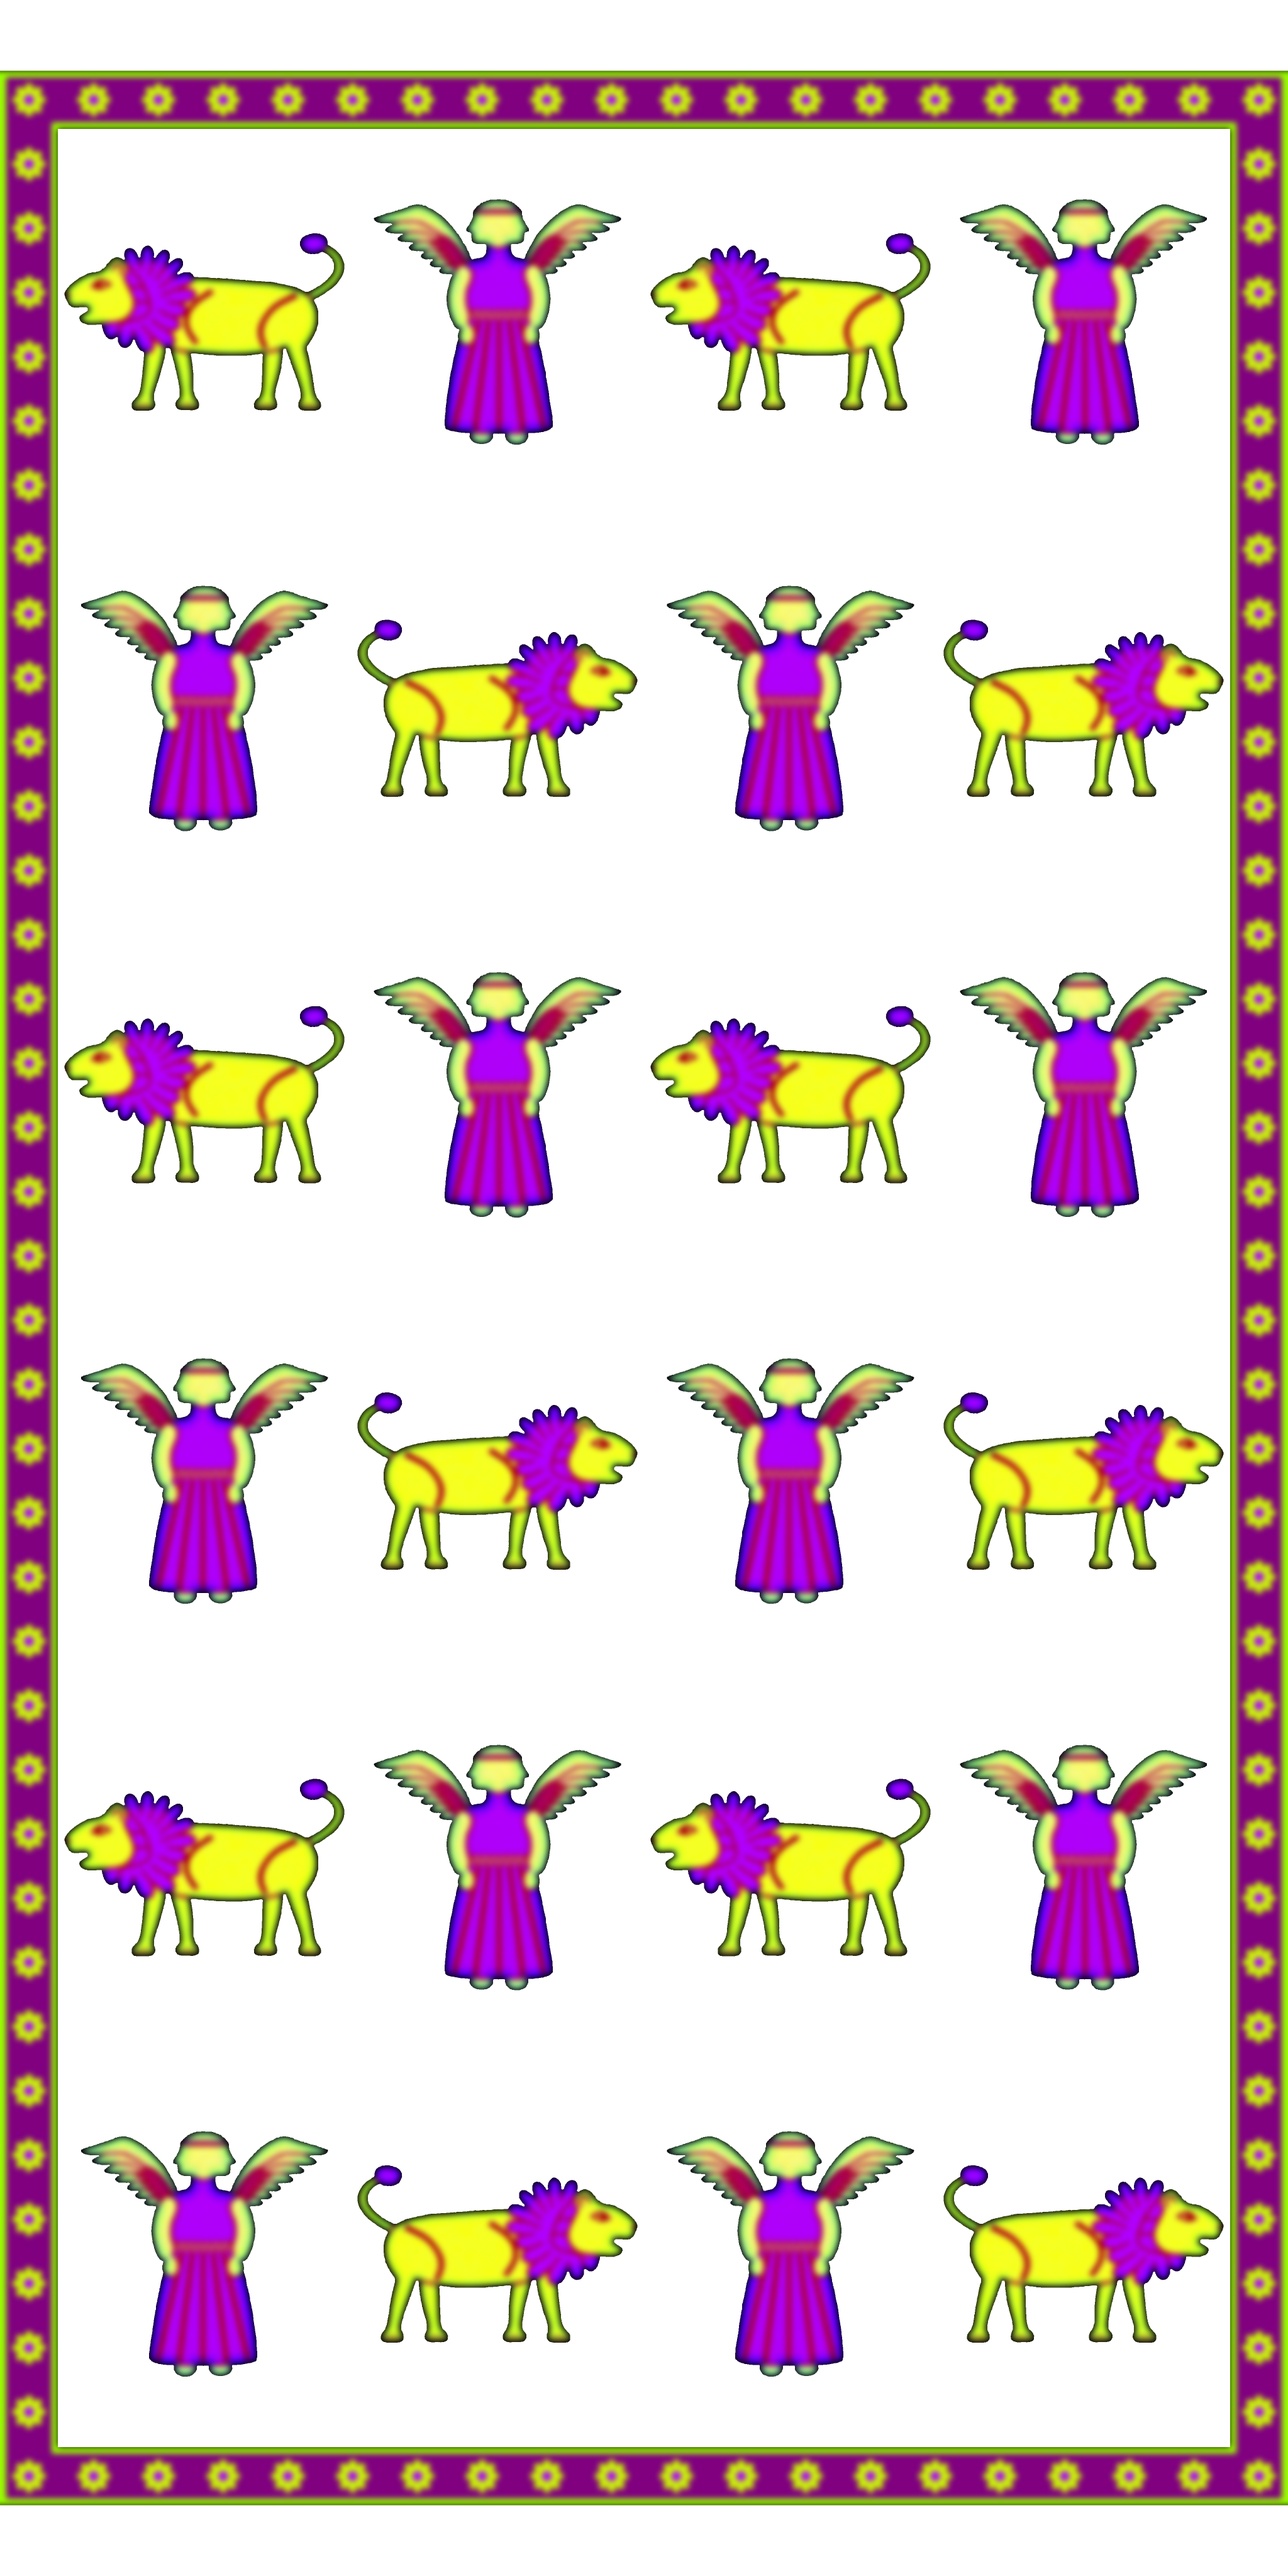
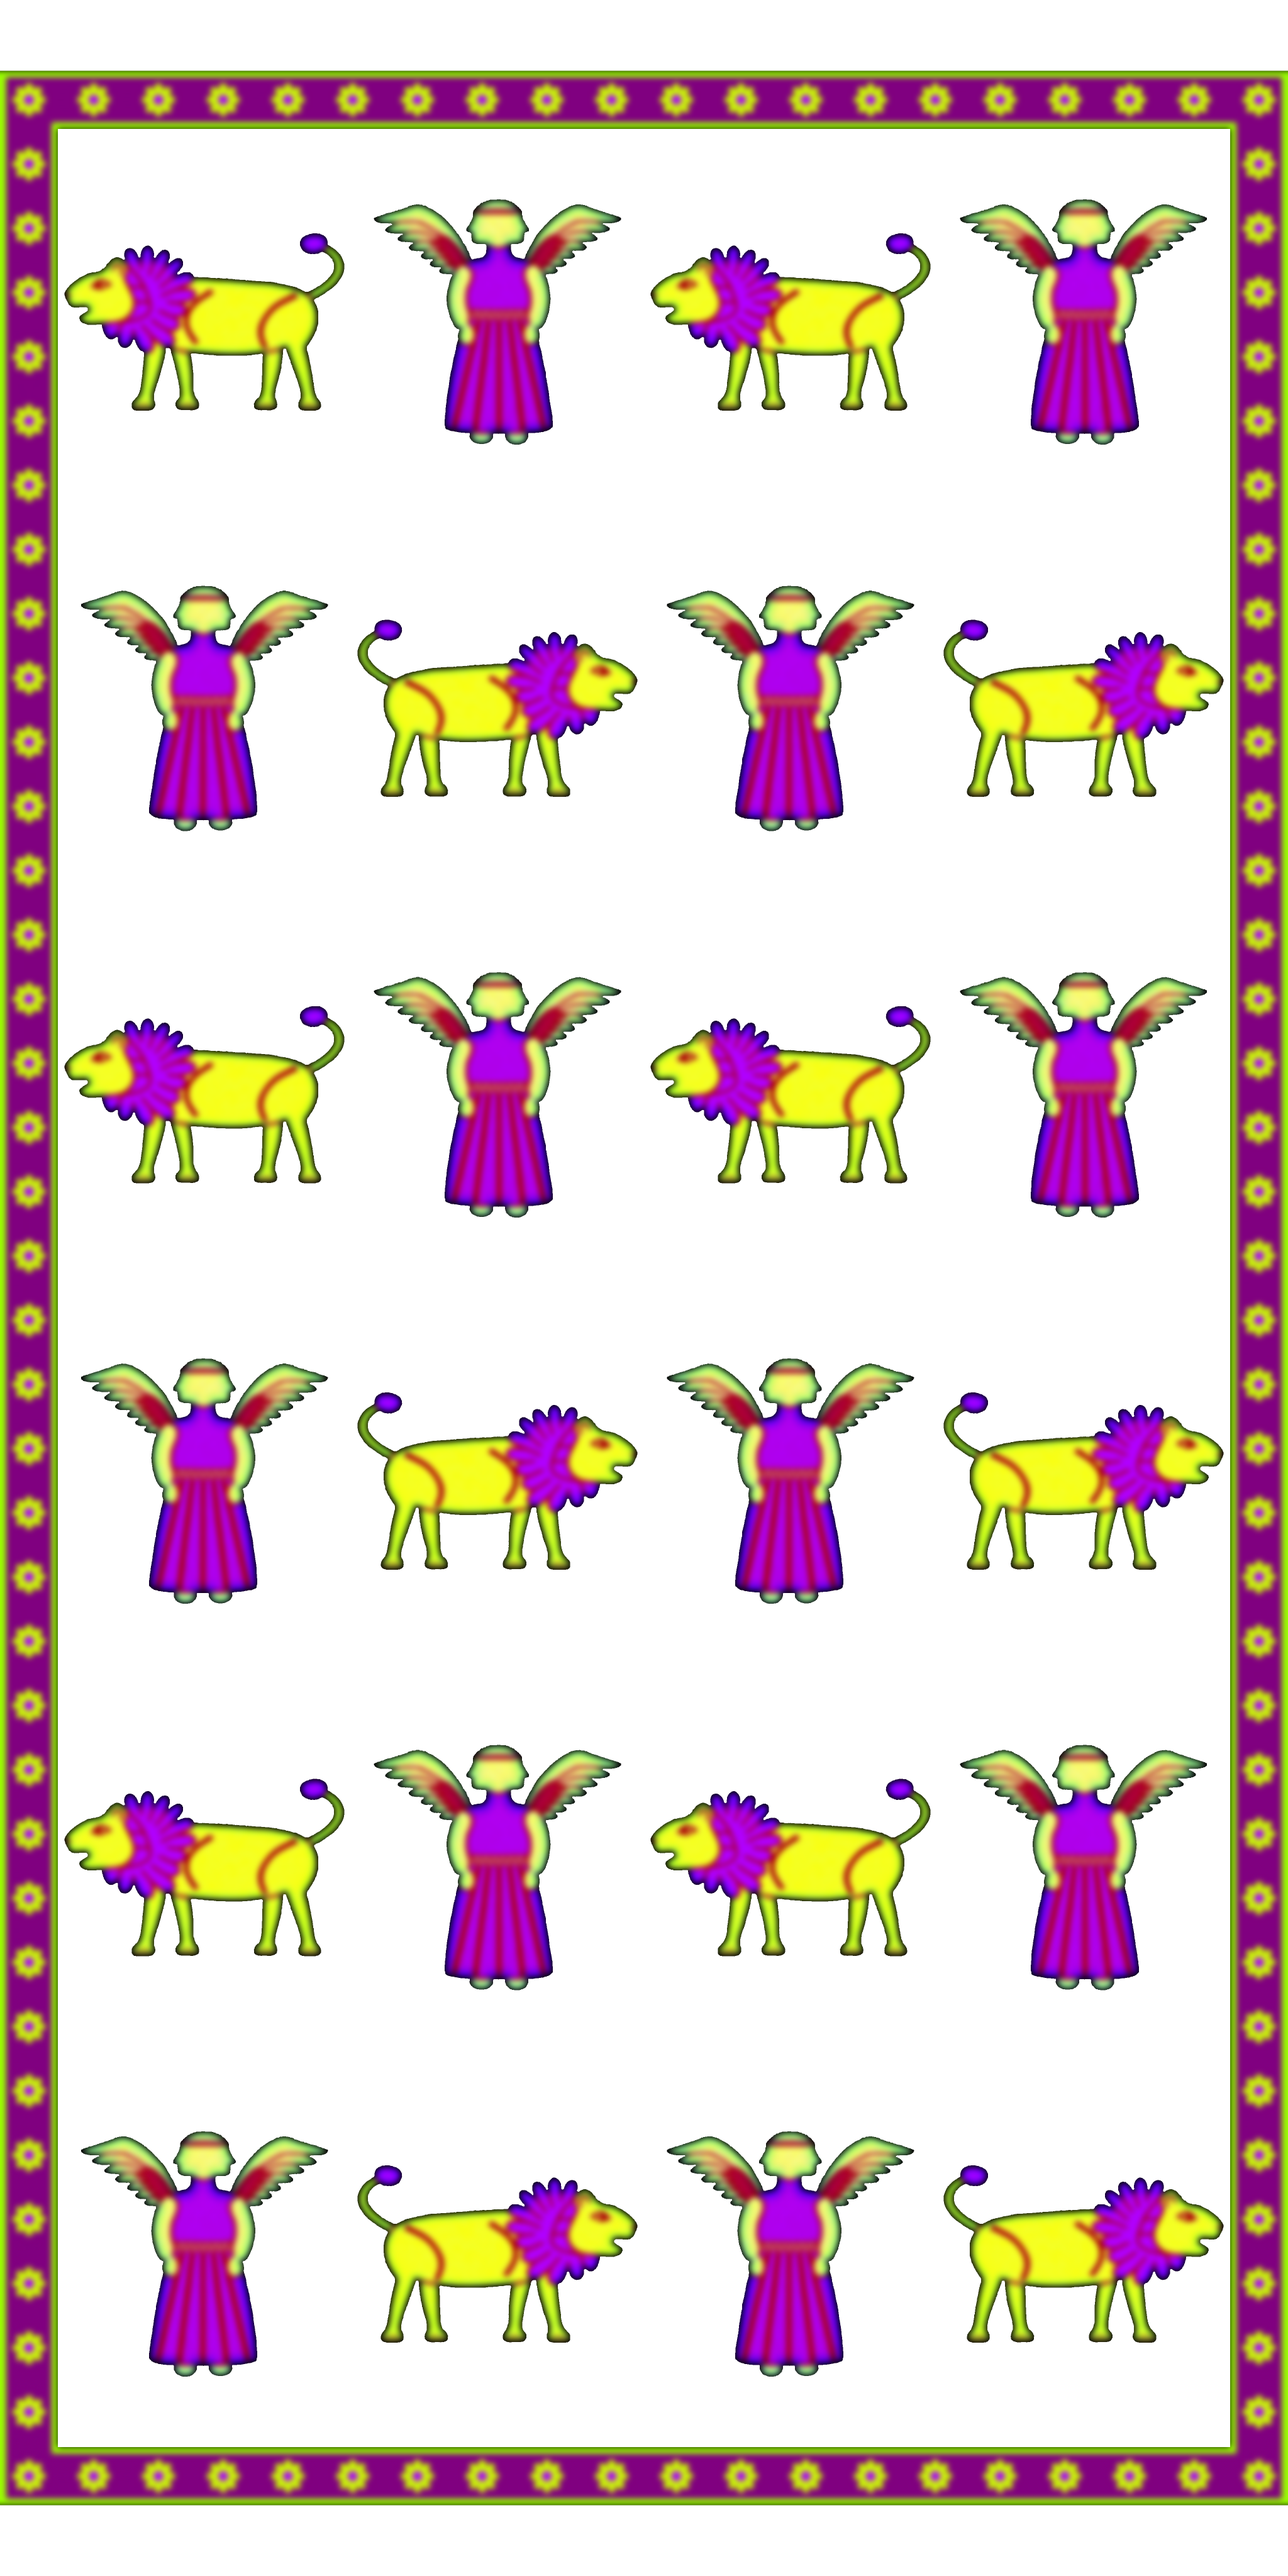
Visite : la parokhet, fond sans lin et écart des cordons resserré

diff --git a/visite/matieres.js b/visite/matieres.js
@@ -279,7 +279,7 @@ const vec3 NOIR_SUIE = vec3(0.165, 0.165, 0.170);
 // le fond est la couleur que le glb porte, les autres s'en déduisent par rapport.
 const float SOL_BAYIT = 6.0 * AMA;
 const float BOMBE_PAROKHET = 0.12 * AMA;
-const vec3 FOND_PAROKHET = vec3(0.2057, 0.1109, 0.2918);
+const vec3 FOND_PAROKHET = vec3(0.1965, 0.0938, 0.2793);
 const vec3 CHAUD_PAROKHET = vec3(0.3510, 0.0953, 0.1740);
 const vec3 CLAIR_PAROKHET = vec3(0.5527, 0.4624, 0.4507);
 const vec3 CLAIR_CHAUD_PAROKHET = vec3(0.5059, 0.3165, 0.3128);

diff --git a/beit_hamikdash_parokhet.py b/beit_hamikdash_parokhet.py
@@ -89,7 +89,7 @@ VERT = 0.12
 # un drapeau, pas une tapisserie — les teintes d'un lainage se tiennent de près.
 LAINES = (("tekhelet", (0.10, 0.17, 0.48)), ("argaman", (0.40, 0.08, 0.30)),
           ("shani", (0.55, 0.08, 0.08)), ("lin", (0.86, 0.84, 0.78)))
-DOSAGES = {"fond": (0.50, 0.40, 0.07, 0.03), "chaud": (0.10, 0.35, 0.50, 0.05),
+DOSAGES = {"fond": (0.50, 0.42, 0.08, 0.00), "chaud": (0.10, 0.35, 0.50, 0.05),
            "clair": (0.05, 0.05, 0.20, 0.70), "clair_chaud": (0.00, 0.10, 0.45, 0.45)}
 JOUR = 0.75   # la laine teinte absorbe : le jour d'une étoffe lourde, sur les quatre faces
 PALETTE = {face: tuple(JOUR * sum(p * rgb[k] for p, (_, rgb) in zip(parts, LAINES)) for k in range(3))

diff --git a/beit_hamikdash_blockout.py b/beit_hamikdash_blockout.py
@@ -993,7 +993,7 @@ NIMA = 20 / 72   # amot : les 72 נִימִין de Shekalim 8:5 réparties sur l
 # cordon fait un pixel, et quatre couleurs saturées tirées au sort par pixel ne se
 # fondent pas, elles crépitent. Un fil de 24 brins qui contient les quatre EST de la
 # couleur moyenne — ce qui change d'un fil à l'autre n'est que le dosage.
-ECART_PAROKHET = 0.18
+ECART_PAROKHET = 0.12
 LONGUEUR_DOSAGE = 12   # en nimin : sur quelle longueur le dosage d'un cordon dérive
 # Les FACES du tissage — « אֲרִיגָה שֶׁל שְׁתֵּי קִירוֹת » (Rashi Ex. 26:31) : deux parois de fils
 # dont l'une passe devant l'autre là où le dessin le veut. Chaque cordon porte les quatre
